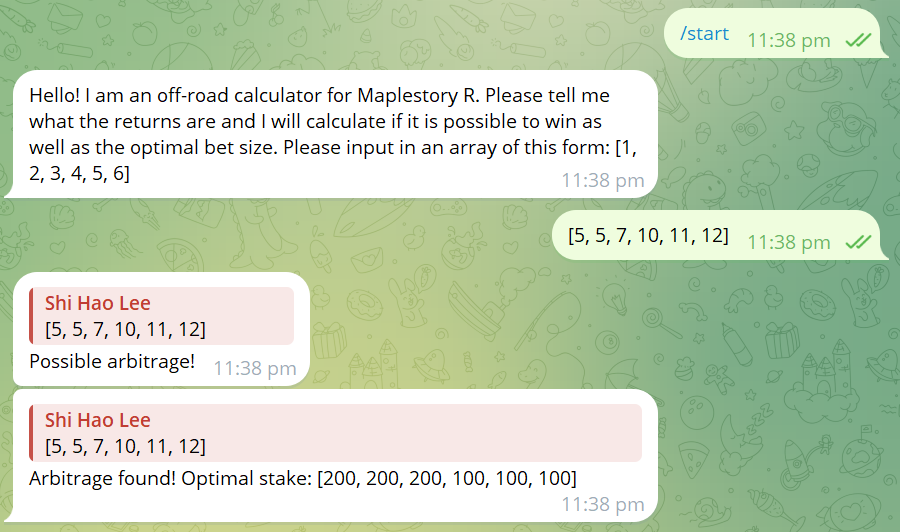
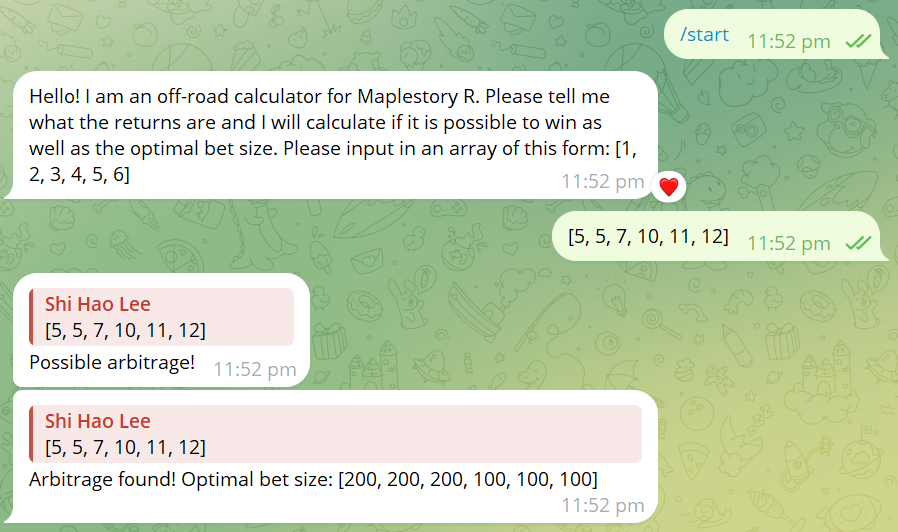
updated example image

diff --git a/offroadbot.py b/offroadbot.py
@@ -56,7 +56,7 @@ def calculate(message):
                 stake *= 2
             stake *= 50 # multiplied by 50 to match in-game betting sizes
             stake = stake.astype(int).tolist()
-            bot.reply_to(message, f"Arbitrage found! Optimal stake: {stake}") 
+            bot.reply_to(message, f"Arbitrage found! Optimal bet size: {stake}") 
         else:
             bot.reply_to(message, "No arbitrage found!")
 
